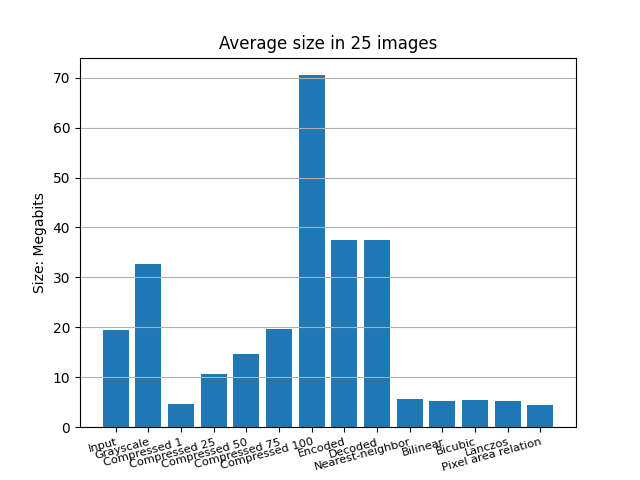
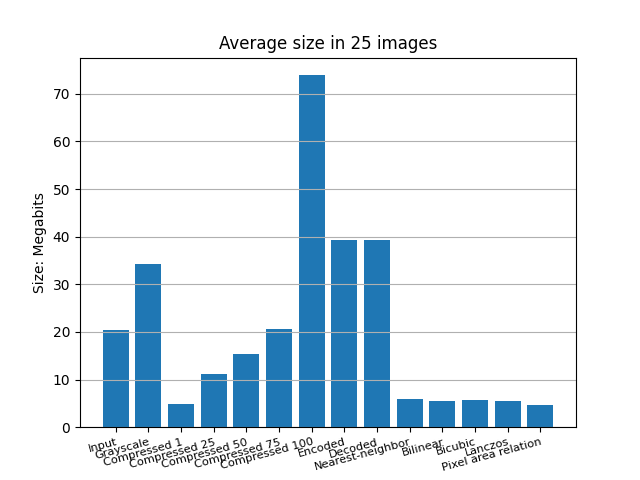
Update

diff --git a/individual-research-project/scripts/SIMULATION/bitrate.py b/individual-research-project/scripts/SIMULATION/bitrate.py
@@ -143,7 +143,7 @@ def calculate_size(image_path):
     try:
         size = os.path.getsize(image_path)
         bits_size = size * 8 # Convert byte to bits (1 byte = 8 bits)
-        mega_size = bits_size / (1024 * 1024) # Convert bits to megabits
+        mega_size = bits_size / (1000 * 1000) # Convert bits to megabits
         return mega_size
     except Exception as e:
         # Handle exceptions
@@ -330,13 +330,14 @@ def plot_size_bar_chart(mean_input,
 
 def main():
     # Unit conversion
-    # x bits = x/1024 kbits = (x/1024)/1024 mbits ([x/(1024 * 1024)] mbits)
+    # x bits = x/1000 kbits = (x/1000)/1000 mbits ([x/(1000 * 1000)] mbits)
+    # y bytes = y/1024 kbytes = (y/1024)/1024 mbytes ([x/(1024 * 1024)] mbytes)
 
     input_files = ['input/{}.jpg'.format(str(i).zfill(3)) for i in range(1, 26)]
     for i in range(0, len(input_files), 1):
         input_batch = input_files[i]
         input_bitrate = calculate_bitrate(input_batch)
-        input_bitrate = input_bitrate/(1024 * 1024) # Convert bits/frame to megabits/frame
+        input_bitrate = input_bitrate/(1000 * 1000) # Convert bits/frame to megabits/frame
         input_bitrate_array.append(input_bitrate)
         input_size = calculate_size(input_batch)
         input_size_array.append(input_size)
@@ -352,7 +353,7 @@ def main():
     for i in range(0, len(input_grayscale_files), 1):
         input_grayscale_batch = input_grayscale_files[i]
         input_grayscale_bitrate = calculate_bitrate(input_grayscale_batch)
-        input_grayscale_bitrate = input_grayscale_bitrate/(1024 * 1024) # Convert bits/frame to megabits/frame
+        input_grayscale_bitrate = input_grayscale_bitrate/(1000 * 1000) # Convert bits/frame to megabits/frame
         input_grayscale_bitrate_array.append(input_grayscale_bitrate)
         input_grayscale_size = calculate_size(input_grayscale_batch)
         input_grayscale_size_array.append(input_grayscale_size)
@@ -368,7 +369,7 @@ def main():
     for i in range(0, len(input_compressed_1_files), 1):
         input_compressed_1_batch = input_compressed_1_files[i]
         input_compressed_1_bitrate = calculate_bitrate(input_compressed_1_batch)
-        input_compressed_1_bitrate = input_compressed_1_bitrate/(1024 * 1024) # Convert bits/frame to megabits/frame
+        input_compressed_1_bitrate = input_compressed_1_bitrate/(1000 * 1000) # Convert bits/frame to megabits/frame
         input_compressed_1_bitrate_array.append(input_compressed_1_bitrate)
         input_compressed_1_size = calculate_size(input_compressed_1_batch)
         input_compressed_1_size_array.append(input_compressed_1_size)
@@ -384,7 +385,7 @@ def main():
     for i in range(0, len(input_compressed_25_files), 1):
         input_compressed_25_batch = input_compressed_25_files[i]
         input_compressed_25_bitrate = calculate_bitrate(input_compressed_25_batch)
-        input_compressed_25_bitrate = input_compressed_25_bitrate/(1024 * 1024) # Convert bits/frame to megabits/frame
+        input_compressed_25_bitrate = input_compressed_25_bitrate/(1000 * 1000) # Convert bits/frame to megabits/frame
         input_compressed_25_bitrate_array.append(input_compressed_25_bitrate)
         input_compressed_25_size = calculate_size(input_compressed_25_batch)
         input_compressed_25_size_array.append(input_compressed_25_size)
@@ -400,7 +401,7 @@ def main():
     for i in range(0, len(input_compressed_50_files), 1):
         input_compressed_50_batch = input_compressed_50_files[i]
         input_compressed_50_bitrate = calculate_bitrate(input_compressed_50_batch)
-        input_compressed_50_bitrate = input_compressed_50_bitrate/(1024 * 1024) # Convert bits/frame to megabits/frame
+        input_compressed_50_bitrate = input_compressed_50_bitrate/(1000 * 1000) # Convert bits/frame to megabits/frame
         input_compressed_50_bitrate_array.append(input_compressed_50_bitrate)
         input_compressed_50_size = calculate_size(input_compressed_50_batch)
         input_compressed_50_size_array.append(input_compressed_50_size)
@@ -416,7 +417,7 @@ def main():
     for i in range(0, len(input_compressed_75_files), 1):
         input_compressed_75_batch = input_compressed_75_files[i]
         input_compressed_75_bitrate = calculate_bitrate(input_compressed_75_batch)
-        input_compressed_75_bitrate = input_compressed_75_bitrate/(1024 * 1024) # Convert bits/frame to megabits/frame
+        input_compressed_75_bitrate = input_compressed_75_bitrate/(1000 * 1000) # Convert bits/frame to megabits/frame
         input_compressed_75_bitrate_array.append(input_compressed_75_bitrate)
         input_compressed_75_size = calculate_size(input_compressed_75_batch)
         input_compressed_75_size_array.append(input_compressed_75_size)
@@ -432,7 +433,7 @@ def main():
     for i in range(0, len(input_compressed_100_files), 1):
         input_compressed_100_batch = input_compressed_100_files[i]
         input_compressed_100_bitrate = calculate_bitrate(input_compressed_100_batch)
-        input_compressed_100_bitrate = input_compressed_100_bitrate/(1024 * 1024) # Convert bits/frame to megabits/frame
+        input_compressed_100_bitrate = input_compressed_100_bitrate/(1000 * 1000) # Convert bits/frame to megabits/frame
         input_compressed_100_bitrate_array.append(input_compressed_100_bitrate)
         input_compressed_100_size = calculate_size(input_compressed_100_batch)
         input_compressed_100_size_array.append(input_compressed_100_size)
@@ -448,7 +449,7 @@ def main():
     for i in range(0, len(input_encoded_files), 1):
         input_encoded_batch = input_encoded_files[i]
         input_encoded_bitrate = calculate_bitrate(input_encoded_batch)
-        input_encoded_bitrate = input_encoded_bitrate/(1024 * 1024) # Convert bits/frame to megabits/frame
+        input_encoded_bitrate = input_encoded_bitrate/(1000 * 1000) # Convert bits/frame to megabits/frame
         input_encoded_bitrate_array.append(input_encoded_bitrate)
         input_encoded_size = calculate_size(input_encoded_batch)
         input_encoded_size_array.append(input_encoded_size)
@@ -464,7 +465,7 @@ def main():
     for i in range(0, len(input_decoded_files), 1):
         input_decoded_batch = input_decoded_files[i]
         input_decoded_bitrate = calculate_bitrate(input_decoded_batch)
-        input_decoded_bitrate = input_decoded_bitrate/(1024 * 1024) # Convert bits/frame to megabits/frame
+        input_decoded_bitrate = input_decoded_bitrate/(1000 * 1000) # Convert bits/frame to megabits/frame
         input_decoded_bitrate_array.append(input_decoded_bitrate)
         input_decoded_size = calculate_size(input_decoded_batch)
         input_decoded_size_array.append(input_decoded_size)
@@ -480,7 +481,7 @@ def main():
     for i in range(0, len(nearest_neighbor_files), 1):
         nearest_neighbor_batch = nearest_neighbor_files[i]
         nearest_neighbor_bitrate = calculate_bitrate(nearest_neighbor_batch)
-        nearest_neighbor_bitrate = nearest_neighbor_bitrate/(1024 * 1024) # Convert bits/frame to megabits/frame
+        nearest_neighbor_bitrate = nearest_neighbor_bitrate/(1000 * 1000) # Convert bits/frame to megabits/frame
         nearest_neighbor_quarter_bitrate_array.append(nearest_neighbor_bitrate)
         nearest_neighbor_size = calculate_size(nearest_neighbor_batch)
         nearest_neighbor_quarter_size_array.append(nearest_neighbor_size)
@@ -496,7 +497,7 @@ def main():
     for i in range(0, len(bilinear_files), 1):
         bilinear_batch = bilinear_files[i]
         bilinear_bitrate = calculate_bitrate(bilinear_batch)
-        bilinear_bitrate = bilinear_bitrate/(1024 * 1024) # Convert bits/frame to megabits/frame
+        bilinear_bitrate = bilinear_bitrate/(1000 * 1000) # Convert bits/frame to megabits/frame
         bilinear_quarter_bitrate_array.append(bilinear_bitrate)
         bilinear_size = calculate_size(bilinear_batch)
         bilinear_quarter_size_array.append(bilinear_size)
@@ -512,7 +513,7 @@ def main():
     for i in range(0, len(bicubic_files), 1):
         bicubic_batch = bicubic_files[i]
         bicubic_bitrate = calculate_bitrate(bicubic_batch)
-        bicubic_bitrate = bicubic_bitrate/(1024 * 1024) # Convert bits/frame to megabits/frame
+        bicubic_bitrate = bicubic_bitrate/(1000 * 1000) # Convert bits/frame to megabits/frame
         bicubic_quarter_bitrate_array.append(bicubic_bitrate)
         bicubic_size = calculate_size(bicubic_batch)
         bicubic_quarter_size_array.append(bicubic_size)
@@ -528,7 +529,7 @@ def main():
     for i in range(0, len(lanczos_files), 1):
         lanczos_batch = lanczos_files[i]
         lanczos_bitrate = calculate_bitrate(lanczos_batch)
-        lanczos_bitrate = lanczos_bitrate/(1024 * 1024) # Convert bits/frame to megabits/frame
+        lanczos_bitrate = lanczos_bitrate/(1000 * 1000) # Convert bits/frame to megabits/frame
         lanczos_quarter_bitrate_array.append(lanczos_bitrate)
         lanczos_size = calculate_size(lanczos_batch)
         lanczos_quarter_size_array.append(lanczos_size)
@@ -544,7 +545,7 @@ def main():
     for i in range(0, len(pixel_area_relation_files), 1):
         pixel_area_relation_batch = pixel_area_relation_files[i]
         pixel_area_relation_bitrate = calculate_bitrate(pixel_area_relation_batch)
-        pixel_area_relation_bitrate = pixel_area_relation_bitrate/(1024 * 1024) # Convert bits/frame to megabits/frame
+        pixel_area_relation_bitrate = pixel_area_relation_bitrate/(1000 * 1000) # Convert bits/frame to megabits/frame
         pixel_area_relation_quarter_bitrate_array.append(pixel_area_relation_bitrate)
         pixel_area_relation_size = calculate_size(pixel_area_relation_batch)
         pixel_area_relation_quarter_size_array.append(pixel_area_relation_size)
@@ -593,8 +594,8 @@ def main():
     # image_path = input("Enter the path to the image file: ")
     # bitrate = calculate_bitrate(image_path)
     # print("Bitrate:", bitrate, "bits/frame")
-    # print("Bitrate:", bitrate/1024, "kilobits/frame")
-    # print("Bitrate:", bitrate/(1024 * 1024), "megabits/frame")
+    # print("Bitrate:", bitrate/1000, "kilobits/frame")
+    # print("Bitrate:", bitrate/(1000 * 1000), "megabits/frame")
 
 if __name__ == "__main__":
     main()

diff --git a/individual-research-project/scripts/COMMUNICATION/BPSK.m b/individual-research-project/scripts/COMMUNICATION/BPSK.m
@@ -1,0 +1,97 @@
+% This script is based on BPSK_Introduction.m
+% EENG22000 Communications 2022 Lab Notes
+% Communication Laboratory
+% Author: Dr. Tommaso Cappello
+% The author thanks Dr. Simon Armour
+% Modified by Yumu Xie
+
+% EbNo: signal/noise = S/N (SNR)
+% When EbNo > 0, it means that signal is stronger than noise
+% When EbNo < 0, it means that noise is stronger than signal
+
+% BER = Ne/N
+% Ne = BER * N
+% The number of bit errors in the received sequence is determined by bit
+% error rate and the total number of transmitted bits
+% BER: bit error rate
+% Ne: the number of bit errors in the received sequence
+% N: the total number of transmitted bits
+
+% Br: bit rate
+% bit rate (bitrate or as a variable R) is the number of bits that are 
+% conveyed or processed per unit of time
+% bit/s
+
+clc
+close all
+clearvars
+
+% Script parameters:
+Br = 1024;             % Bit rate
+m = 1;                 % Bits per symbol (BPSK)
+first_N = 20000000;    % Number of simulated bits
+second_N = 5000000;    % Number of simulated bits
+EbNo = -10;            % Eb/N0 in dB
+OS = 8;                % Oversampling factor
+rollOff = 0.5;         % Roll-off factor
+
+% Design root raised cosine filter:
+numSymbols = 15;                                 % Filter length in symbols
+h = rcosdesign(rollOff, numSymbols, OS, 'sqrt'); % Generate coefficients
+h = h./sum(h);
+
+% Modulator:
+first_txBit = rand(1,first_N)>0.5;                   % Generate bit sequence
+first_txSymbol = first_txBit.*2 -1;                  % Convert to symbols
+second_txBit = rand(1,second_N)>0.5;                 % Generate bit sequence
+second_txSymbol = second_txBit.*2 -1;                % Convert to symbols
+
+% Transmitter filter:
+first_txSymbolUp = upsample(first_txSymbol,OS, 1);   % Upsample by zero stuffing
+first_txSignal = conv(first_txSymbolUp, h);          % Filter to generate waveform
+first_l = length(first_txSignal);                    % Calculate length
+second_txSymbolUp = upsample(second_txSymbol,OS, 1); % Upsample by zero stuffing
+second_txSignal = conv(second_txSymbolUp, h);        % Filter to generate waveform
+second_l = length(second_txSignal);                  % Calculate length
+
+% Channel:
+first_PtxSignal = sum(first_txSignal.*conj(first_txSignal))/2;                         % Calculate power
+first_Bs = Br/m;                                                                       % Symbol rate
+first_Ns = first_N/m;                                                                  % Number of symbols
+first_sigma = sqrt(first_PtxSignal*first_Bs/(2*first_Ns*Br)*10^(-EbNo/10));            % Calculate sigma
+first_noise = randn(1,first_l).*first_sigma+1j.*randn(1,first_l).*first_sigma;         % Generate noise
+first_rxSignal = first_txSignal + first_noise;                                         % AWGN channel model
+second_PtxSignal = sum(second_txSignal.*conj(second_txSignal))/2;                      % Calculate power
+second_Bs = Br/m;                                                                      % Symbol rate
+second_Ns = second_N/m;                                                                % Number of symbols
+second_sigma = sqrt(second_PtxSignal*second_Bs/(2*second_Ns*Br)*10^(-EbNo/10));        % Calculate sigma
+second_noise = randn(1,second_l).*second_sigma+1j.*randn(1,second_l).*second_sigma;    % Generate noise
+second_rxSignal = second_txSignal + second_noise;                                      % AWGN channel model
+
+% Receiver filter:
+first_rxSignalFilt = conv(first_rxSignal,h);                                   % Apply receiver filter
+first_firDelay = numSymbols*OS + 1;                                            % FIR delay calculation
+first_rxSymbol = first_rxSignalFilt(first_firDelay:OS:end-first_firDelay);     % Align and downsample
+second_rxSignalFilt = conv(second_rxSignal,h);                                 % Apply receiver filter
+second_firDelay = numSymbols*OS + 1;                                           % FIR delay calculation
+second_rxSymbol = second_rxSignalFilt(second_firDelay:OS:end-second_firDelay); % Align and downsample
+
+% Demodulate:
+first_rxBit = real(first_rxSymbol)>0;                % Decode bits
+second_rxBit = real(second_rxSymbol)>0;              % Decode bits
+
+% Calculate BER:
+first_numErrors = numel(find(first_txBit~=first_rxBit));    % Count the number of bit errors
+first_BER = first_numErrors/first_N;                        % Simulated BER
+first_BERtheory = berawgn(EbNo,'pam',2);                    % Theoretical BER (BPSK)
+second_numErrors = numel(find(second_txBit~=second_rxBit)); % Count the number of bit errors
+second_BER = second_numErrors/second_N;                     % Simulated BER
+second_BERtheory = berawgn(EbNo,'pam',2);                   % Theoretical BER (BPSK)
+
+disp(['EbNo: ', num2str(EbNo)]);
+disp(['first numErrors: ', num2str(first_numErrors)]);
+disp(['first BER: ', num2str(first_BER)]);
+disp(['first BERtheory: ', num2str(first_BERtheory)]);
+disp(['second numErrors: ', num2str(second_numErrors)]);
+disp(['second BER: ', num2str(second_BER)]);
+disp(['second BERtheory: ', num2str(second_BERtheory)]);
